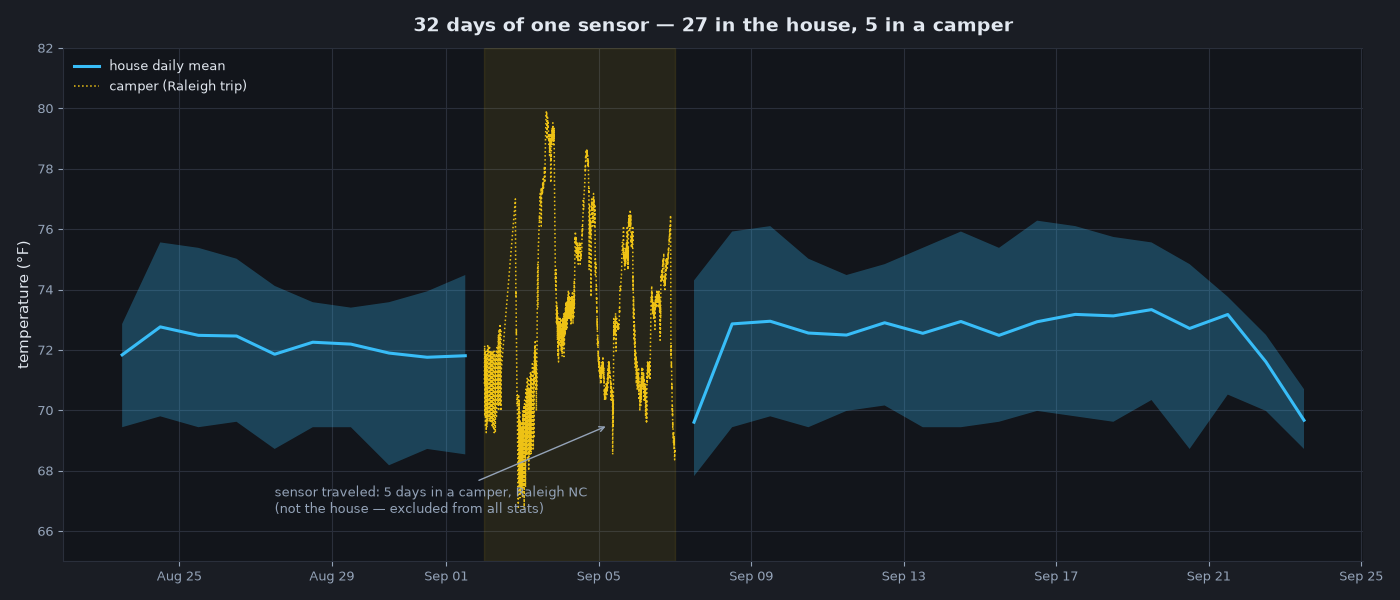
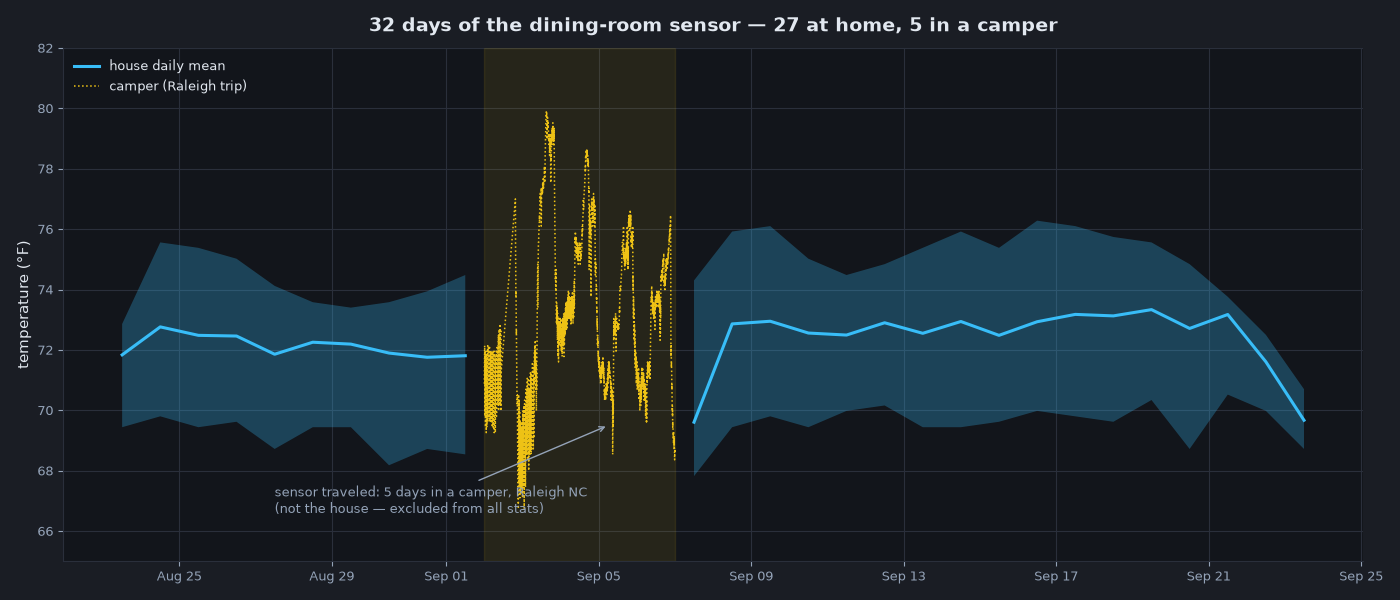
post(projects): microclimate — name both zones, add office sensor + humidity, fix heatmap render

Changed region(s): [[0.2457, 0.03, 0.7679, 0.06]]

diff --git a/projects/_posts/2026-09-23-home-microclimate.md b/projects/_posts/2026-09-23-home-microclimate.md
@@ -10,46 +10,51 @@ thumbnail-img: /projects/assets/images/micro-03-heatmap.png
 
 # A Month Inside My Home's Microclimate (and 5 Days in a Camper)
 
-A Raspberry Pi Zero in my house has been reporting ambient temperature and humidity every minute for a month. It's a tiny thing — a $15 board and a cheap DHT22 sensor — but it never stops, so it produces the kind of record you can't get by checking a thermostat twice a day.
+Two Raspberry Pis in my house have been reporting ambient temperature and humidity every minute for a month: a Pi Zero downstairs in the dining room, and a Pi 3 B upstairs in my office. Each is a tiny thing — a cheap board and a bargain DHT22 sensor — but they never stop, so they produce the kind of record you can't get by checking a thermostat twice a day.
 
-Then, without meaning to, I ran an experiment. The Pi came with me in a camper to Raleigh, North Carolina for five days in early September. It kept recording the whole time. That gives the same sensor, the same wiring, the same calibration, in two completely different environments — and it turns out the camper days are the most interesting part of the data.
+Then, without meaning to, I ran an experiment. The downstairs Pi came with me in a camper to Raleigh, North Carolina for five days in early September. It kept recording the whole time. That gives the same sensor, the same wiring, the same calibration, in two completely different environments — and it turns out the camper days are the most interesting part of the data.
 
-So here's a month: **27 days in the house, 5 days on the road, 37,000+ readings.**
+So here's a month: **27 days at home and 5 days on the road for the dining-room sensor, with the office sensor quietly logging in parallel the whole time — 74,000 readings between them.**
 
 ## The month at a glance
 
-![Daily temperature range in the house, with the camper days shown in yellow](/projects/assets/images/micro-01-band.png){: .mx-auto.d-block :}
+![Daily temperature range in the dining room, with the camper days shown in yellow](/projects/assets/images/micro-01-band.png){: .mx-auto.d-block :}
 
-*The blue band is the house's daily min–max, with the mean as a line. The yellow dotted line is the raw sensor output on the five days it was in a camper instead.*
+*The blue band is the dining room's daily min–max, with the mean as a line. The yellow dotted line is the raw sensor output on the five days it was in a camper instead.*
 
-The first thing that jumps out is how little the house moves. Over 27 days it stayed between **67.8 °F and 76.3 °F** — a total span of **8.5 °F** across a month where the weather outside was doing its own thing entirely.
+The first thing that jumps out is how little the dining room moves. Over 27 days it stayed between **67.8 °F and 76.3 °F** — a total span of **8.5 °F** across a month where the weather outside was doing its own thing entirely.
 
 The second thing is the gap where the camper is. Those five days are plotted raw, minute by minute, because a daily average would hide what's actually going on: the readings swing much harder, as you'd expect from a small box with no real climate control in the September sun.
 
 | | Readings | Min | Mean | Max | Range |
 |---|---|---|---|---|---|
-| House (27 days) | 31,429 | 67.8 °F | 72.4 °F | 76.3 °F | **8.5 °F** |
-| Camper (5 days) | 5,773 | 66.7 °F | 73.3 °F | 79.9 °F | **13.1 °F** |
+| Dining room, downstairs (27 days) | 31,429 | 67.8 °F | 72.4 °F | 76.3 °F | **8.5 °F** |
+| Office, upstairs (all 32 days) | 37,353 | 70.3 °F | 77.1 °F | 80.6 °F | **10.3 °F** |
+| Camper — dining-room sensor (5 days) | 5,773 | 66.7 °F | 73.3 °F | 79.9 °F | **13.1 °F** |
 
-Here's the part I didn't expect: **the camper wasn't hotter on average.** Its mean was 73.3 °F against the house's 72.4 °F — less than one degree apart. What changed wasn't the average temperature, it was the *stability*.
+*The dining-room row covers only the 27 days that sensor was actually home. The office Pi never left, so its row spans the full month.*
 
-## The house barely has a day
+Here's the part I didn't expect: **the camper wasn't hotter on average.** Its mean was 73.3 °F against the dining room's 72.4 °F — less than one degree apart. What changed wasn't the average temperature, it was the *stability*.
+
+## The dining room barely has a day
 
 Most temperature data has an obvious rhythm: cool before dawn, warm in the afternoon. Mine doesn't, and that's the finding.
 
 ![Average temperature by hour of day, house versus camper](/projects/assets/images/micro-02-rhythm.png){: .mx-auto.d-block :}
 
-Averaged across all 27 house days, the difference between the coolest hour of the day (07:00, 71.6 °F) and the warmest (12:00, 73.8 °F) is **2.2 °F**. The overnight-to-daytime difference is even smaller: **1.4 °F** between the sleep window and the working day. The shaded band shows the 10th–90th percentile for each hour — on a typical day, the house sits in a window barely two degrees wide.
+Averaged across all 27 dining-room days, the difference between the coolest hour of the day (07:00, 71.6 °F) and the warmest (12:00, 73.8 °F) is **2.2 °F**. The overnight-to-daytime difference is even smaller: **1.4 °F** between the sleep window and the working day. The shaded band shows the 10th–90th percentile for each hour — on a typical day, the dining room sits in a window barely two degrees wide.
 
-The camper, same sensor, shows a **6.2 °F** swing across the day — nearly three times as much — with a morning trough and an afternoon peak that actually look like a daily cycle.
+The office is even flatter: **0.8 °F** between its coolest and warmest hours — it just sits five degrees higher, at roughly 77 °F all day.
 
-Two explanations are plausible and I can't separate them from this data alone: the house is conditioned, so something is actively flattening the curve, and the camper is a small, mostly sealed box in the sun. Either way, the practical upshot is that **my indoor climate is driven by weather, not by time of day.** The warmest day of the month (September 19, mean 73.3 °F) and the coolest (September 7, mean 69.6 °F) are five degrees apart, while every single day looks nearly identical hour to hour.
+The camper, same sensor, shows a **6.2 °F** swing across the day — nearly three times as much as the dining room — with a morning trough and an afternoon peak that actually look like a daily cycle.
+
+The house is conditioned — split HVAC, one unit for each floor — so something is actively flattening the curve; the camper is a small, mostly sealed box in the sun. Either way, the practical upshot is that **my indoor climate is driven by weather, not by time of day.** The warmest day of the month (September 19, mean 73.3 °F) and the coolest (September 7, mean 69.6 °F) are five degrees apart, while every single day looks nearly identical hour to hour.
 
 ## Every minute of the month
 
 ![Heatmap of temperature by day and hour](/projects/assets/images/micro-03-heatmap.png){: .mx-auto.d-block :}
 
-This is the chart I'd frame if I had to pick one. Each row is a day, each column an hour, and colour is temperature. The house rows are almost featureless — that's the point. You can see the whole month drift slightly warmer through mid-September and then cool off, but there are no dramatic bands, no hot afternoons, no cold nights.
+This is the chart I'd frame if I had to pick one. Each row is a day, each column an hour, and colour is temperature. The dining-room rows are almost featureless — that's the point. You can see the whole month drift slightly warmer through mid-September and then cool off, but there are no dramatic bands, no hot afternoons, no cold nights.
 
 The five dashed rows — September 2 through 6 — are the camper, and you can read the difference directly: colour that changes as you move right across the row, warm evenings, and a couple of genuinely hot afternoons peaking at **79.9 °F**.
 
@@ -63,30 +68,34 @@ Temperature isn't the whole story. The same sensor reports relative humidity, an
 
 Humidity wandered between **40 % and 68 %** over the month — a much wider relative swing than temperature — without any obvious pattern. And when I compared it minute by minute against temperature across all 31,000+ house readings, the correlation is essentially **zero (r ≈ 0.03)**.
 
-That's worth pausing on, because outdoors, temperature and relative humidity are famously inversely correlated: warmer air can hold more water, so relative humidity drops when temperature rises. Indoors, that relationship has vanished. Something in the space is managing moisture independently of temperature — the two metrics are just… separate knobs. If I'd only looked at temperature I'd have assumed a calm, stable climate; the humidity data says the indoor environment is far more variable than the temperature line suggests.
+That's worth pausing on, because outdoors, temperature and relative humidity are famously inversely correlated: warmer air can hold more water, so relative humidity drops when temperature rises. Indoors, that relationship has vanished. Something in each zone is managing moisture independently of temperature — the two metrics are just… separate knobs. The office shows the same disconnect on a drier baseline: **22–57 %** humidity (mean 49 %) against the dining room's 40–68 % (mean 57 %), and neither one tracks temperature. If I'd only looked at temperature I'd have assumed a calm, stable climate; the humidity data says the indoor environment is far more variable than the temperature line suggests.
 
-## The biggest gap in the data was between my own two sensors
+## The widest gap in the data is between two rooms in the same house
 
-Finally, I have a second Raspberry Pi with the same DHT22 setup reporting from elsewhere in the house, so the two can be compared directly on the same minutes.
+The second Pi sits upstairs in my office / computer room; the Pi Zero sits downstairs in the dining room. Because both log the same way, they can be compared minute by minute — 26,700+ aligned pairs across the 27 days they share.
 
-![Daily mean temperature from two sensors in the same house](/projects/assets/images/micro-05-crosscheck.png){: .mx-auto.d-block :}
+![Daily mean temperature and humidity in both rooms](/projects/assets/images/micro-05-crosscheck.png){: .mx-auto.d-block :}
 
-Over 26,700 aligned minute-pairs they differ by **4.9 °F on average** — and on the extreme end they're **10.3 °F** apart. That's larger than the house's own 2.2 °F daily swing, larger than the differences between many of the days, and not far off the entire 8.5 °F month.
+The office runs **4.9 °F warmer on average** than the dining room, and the gap reaches **10.3 °F** at its widest. It's also drier — 49 % mean humidity against 57 % — which is a plausible signature of a room full of computers on its own zone.
 
-Think about what that means. The indoor climate doesn't have a temperature; it has a *distribution*. Where you stand matters — a south-facing room, a second floor, or a spot near a vent can easily read 5 °F differently from another spot in the same building, and that's bigger than whether it's 7 in the morning or noon. I don't know exactly where the divergence comes from in my case — placement, height, airflow, sun exposure are all in play — but the scale of it is the real lesson: **a single sensor is a sample, not a truth.** This is also a reminder that my "house temperature" numbers above are really "the temperature *at the sensor*", and the second device is doing exactly its job by disagreeing.
+That 4.9 °F is larger than the dining room's entire daily swing (2.2 °F), larger than the difference between most individual days, and more than half of the dining room's whole-month range.
+
+The mechanism isn't mysterious: the house has **split HVAC — one unit for upstairs, one for downstairs** — so the two zones are controlled separately. Add a room full of computers and it's no shock that the office sits higher. What surprised me is the *size*: nearly five degrees of average difference between two thermostatically controlled zones on the same days, with no dramatic weather to explain it.
+
+So my indoor climate doesn't have "a" temperature — it has a distribution, and where you stand matters more than what time it is. **A single sensor is a sample, not a truth.** Placement, height, airflow and sun exposure all matter, and my two devices are doing exactly their job by disagreeing.
 
 ## What a month of this is worth
 
 None of this required anything exotic: a couple of cheap Pis, a DHT22 each, a small time-series database, and a dashboard I rarely look at. The value isn't the monitoring in real time — it's that a month later I can answer questions I didn't ask at the time:
 
-- Is the house actually stable? Yes — 8.5 °F over a month, and barely a daily rhythm.
-- Does HVAC-style conditioning show up in the data? It looks that way, though an air conditioner is only hearsay from here.
-- What does "comfortable" mean numerically? 67.8–76.3 °F at the sensor, 40–68 % humidity, with the caveat that a second sensor 5 °F away is telling a different story.
+- Is the house actually stable? Per zone, yes: the dining room held inside an 8.5 °F window over a month, the office inside 10.3 °F, and both barely move hour to hour.
+- Does the split HVAC show up in the data? Yes. One unit upstairs, one downstairs, and the two zones average 4.9 °F apart — with the room full of computers running both warmer and drier.
+- What does "comfortable" mean numerically? 67.8–76.3 °F and 40–68 % humidity downstairs; 70.3–80.6 °F and 22–57 % upstairs. There is no single house number, and that's the honest answer.
 
 And the accidental experiment: the 5 days in the camper turned out to be the most informative five days on record, not because the environment was extreme, but because the *same instrument* made the comparison explicit.
 
-The sensor is still running. Next winter's data should be interesting.
+If you want to run the same thing, the collectors are plain Python — a DHT22 on a GPIO pin, logging once a minute into InfluxDB — and the scripts are public: [DovarFalcone/pi-scripts](https://github.com/DovarFalcone/pi-scripts/tree/main/sensor). The sensor is still running, and next winter's data should be interesting.
 
 ---
 
-*All readings are minute-precision from a Raspberry Pi Zero (DHT22 ambient sensor, 32-day window ending September 23, 2026). The five camper days (September 2–6, Raleigh, NC) are excluded from every house statistic and kept visible in the charts where noted. Humidity and temperature values are raw sensor output — a cheap sensor, honest about its tolerances.*
+*All readings are minute-precision from two Raspberry Pis (DHT22 ambient sensors, 32-day window ending September 23, 2026): a Pi Zero in the downstairs dining room and a Pi 3 B in the upstairs office. The five camper days (September 2–6, Raleigh, NC) are excluded from every dining-room statistic and kept visible in the charts where noted. Humidity and temperature values are raw sensor output — cheap sensors, honest about their tolerances.*
